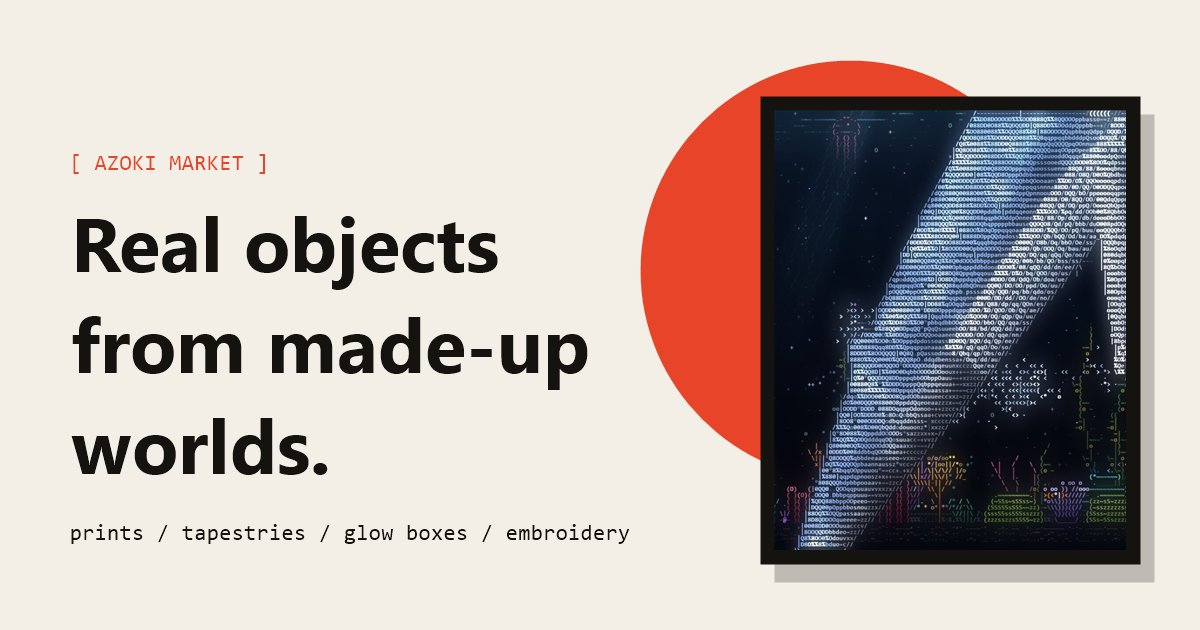
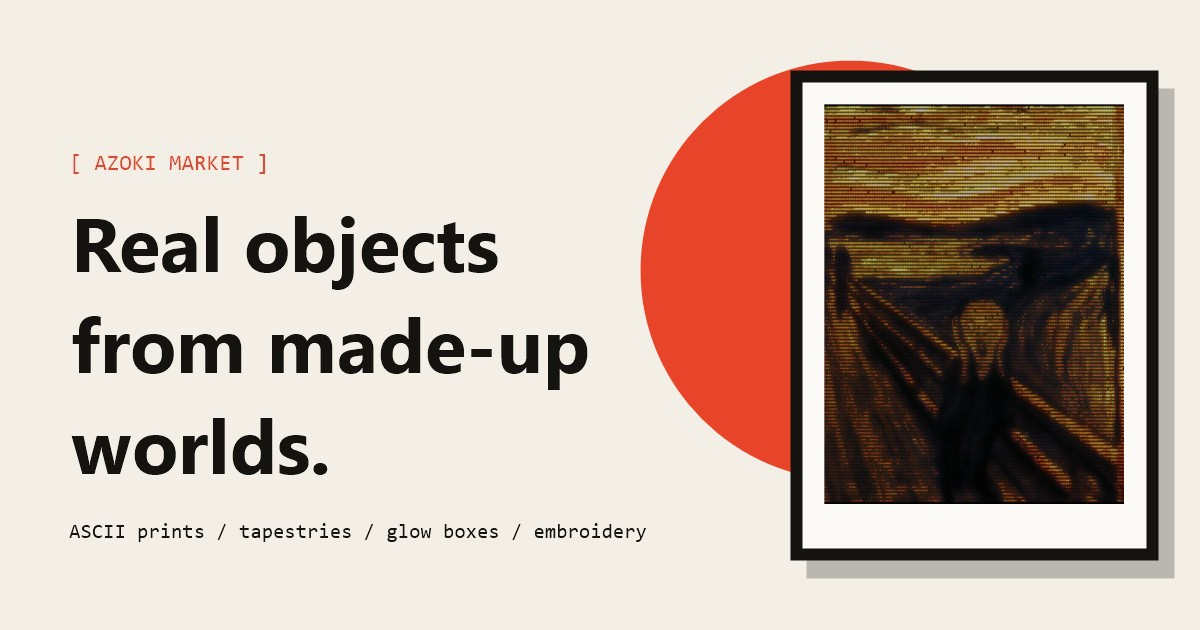
Renumber the catalogue with Coded Lens first; new share picture; product pages describe themselves
Sitemap lists every product. Product pages set description, canonical and og tags.

Changed region(s): [[0.6167, 0.0905, 0.9867, 0.9349], [0.0617, 0.8143, 0.5242, 0.8746]]

diff --git a/js/products.js b/js/products.js
@@ -1,7 +1,7 @@
 /* The Azoki Market catalogue. Edit this file to change what the shop sells.
 
    PLACEHOLDERS TO REPLACE BEFORE GOING LIVE
-   - Prices, size lists and "details" lines are stand-ins, EXCEPT the Coded Lens prints (No. 012 to 021):
+   - Prices, size lists and "details" lines are stand-ins, EXCEPT the Coded Lens prints (No. 001 to 010):
      those were costed on 2026-11-24 from Printify (Sensaria matte posters, US shipping included in
      the price). `prices` lists one price per size, in the same order as options.Size.
    - Product pictures are drawn by the site from the artwork in assets/ (a frame, a hanging
@@ -33,79 +33,63 @@ window.MARKET = {
   ],
   products: [
     {
-      id: 'sunset-print', no: '004', name: 'Hearthside, 18:36', cat: 'prints', type: 'print',
-      art: 'assets/art-village-sunset.jpg', wall: '#e3cdb4', price: 24, frame: '#6b4a2e',
-      from: 'Hearthside', fromId: 'hearthside',
-      blurb: 'The painted village at sunset, seen from high above, with the lamps about to come on.',
-      options: { Size: ['11 x 14 in', '12 x 18 in', '16 x 20 in', '18 x 24 in'] }, step: 6,
-      details: ['Art print, ready for a standard frame', 'Frame not included']
-    },
-    {
-      id: 'noon-print', no: '005', name: 'Hearthside, Noon', cat: 'prints', type: 'print',
-      art: 'assets/art-village-noon.jpg', wall: '#d5dcc6', price: 24, frame: '#6b4a2e',
-      from: 'Hearthside', fromId: 'hearthside',
-      blurb: 'Red roofs, blue roofs and a great deal of green. The village at its brightest.',
-      options: { Size: ['11 x 14 in', '12 x 18 in', '16 x 20 in', '18 x 24 in'] }, step: 6,
-      details: ['Art print, ready for a standard frame', 'Frame not included']
-    },
-    {
-      id: 'starry-print', no: '012', name: "Starry Night.exe", cat: 'prints', type: 'print', lens: true, land: true,
+      id: 'starry-print', no: '001', name: "Starry Night.exe", cat: 'prints', type: 'print', lens: true, land: true,
       art: 'assets/cl-starry.jpg', zoom: 'assets/cl-starry-zoom.jpg', wall: '#c9cfd8', price: 34, prices: [34, 44, 69],
       blurb: "Van Gogh's night sky, rebuilt one character at a time. From across the room it is the painting. Up close it is all letters.",
       options: { Size: ['16 x 12 in', '24 x 18 in', '32 x 24 in'] },
       details: ["Art print on museum-grade matte paper","Frame not included","Free shipping in the US","Every mark in the picture is a letter, number or symbol","After Van Gogh, 1889 (public domain)","Made with Coded Lens, in the Code Sea look"]
     },
     {
-      id: 'scream-print', no: '013', name: "The Scream, Thermal", cat: 'prints', type: 'print', lens: true,
+      id: 'scream-print', no: '002', name: "The Scream, Thermal", cat: 'prints', type: 'print', lens: true,
       art: 'assets/cl-scream.jpg', zoom: 'assets/cl-scream-zoom.jpg', wall: '#ddd0c2', price: 34, prices: [34, 44, 69],
       blurb: "The Scream as a heat camera would see it, every swirl of the sky typed out in symbols.",
       options: { Size: ['12 x 16 in', '18 x 24 in', '24 x 32 in'] },
       details: ["Art print on museum-grade matte paper","Frame not included","Free shipping in the US","Every mark in the picture is a letter, number or symbol","After Munch, 1893 (public domain)","Made with Coded Lens, in the Thermal look"]
     },
     {
-      id: 'wave-print', no: '014', name: "The Great Wave, Blueprint", cat: 'prints', type: 'print', lens: true, land: true,
+      id: 'wave-print', no: '003', name: "The Great Wave, Blueprint", cat: 'prints', type: 'print', lens: true, land: true,
       art: 'assets/cl-wave.jpg', zoom: 'assets/cl-wave-zoom.jpg', wall: '#d3d9df', price: 34, prices: [34, 44, 69],
       blurb: "Hokusai's wave drawn like an engineering plan: white characters on blueprint blue.",
       options: { Size: ['16 x 12 in', '24 x 18 in', '32 x 24 in'] },
       details: ["Art print on museum-grade matte paper","Frame not included","Free shipping in the US","Every mark in the picture is a letter, number or symbol","After Hokusai, about 1831 (public domain)","Made with Coded Lens, in the Blueprint look"]
     },
     {
-      id: 'shipwreck-print', no: '015', name: "The Shipwreck", cat: 'prints', type: 'print', lens: true, land: true,
+      id: 'shipwreck-print', no: '004', name: "The Shipwreck", cat: 'prints', type: 'print', lens: true, land: true,
       art: 'assets/cl-shipwreck.jpg', zoom: 'assets/cl-shipwreck-zoom.jpg', wall: '#d9cdc4', price: 34, prices: [34, 44, 69],
       blurb: "Turner's storm in thermal colours. The sea is hot, the sky is cold, and all of it is text.",
       options: { Size: ['16 x 12 in', '24 x 18 in', '32 x 24 in'] },
       details: ["Art print on museum-grade matte paper","Frame not included","Free shipping in the US","Every mark in the picture is a letter, number or symbol","After Turner, early 1800s (public domain)","Made with Coded Lens, in the Thermal look"]
     },
     {
-      id: 'hat-print', no: '016', name: "Woman with a Hat, Vapor", cat: 'prints', type: 'print', lens: true,
+      id: 'hat-print', no: '005', name: "Woman with a Hat, Vapor", cat: 'prints', type: 'print', lens: true,
       art: 'assets/cl-hat.jpg', zoom: 'assets/cl-hat-zoom.jpg', wall: '#dccfe0', price: 34, prices: [34, 44, 69],
       blurb: "Matisse's loudest portrait in pinks and teals, spelled out in characters.",
       options: { Size: ['12 x 16 in', '18 x 24 in', '24 x 32 in'] },
       details: ["Art print on museum-grade matte paper","Frame not included","Free shipping in the US","Every mark in the picture is a letter, number or symbol","After Matisse, 1905 (public domain)","Made with Coded Lens, in the Vaporwave look"]
     },
     {
-      id: 'udnie-print', no: '017', name: "Udnie", cat: 'prints', type: 'print', lens: true,
+      id: 'udnie-print', no: '006', name: "Udnie", cat: 'prints', type: 'print', lens: true,
       art: 'assets/cl-udnie.jpg', zoom: 'assets/cl-udnie-zoom.jpg', wall: '#cdd6d4', price: 34, prices: [34, 44, 69],
       blurb: "Picabia's abstract dance, broken into planes of glowing letters.",
       options: { Size: ['12 x 16 in', '18 x 24 in', '24 x 32 in'] },
       details: ["Art print on museum-grade matte paper","Frame not included","Free shipping in the US","Every mark in the picture is a letter, number or symbol","After Picabia, 1913 (public domain)","Made with Coded Lens, in the Code Sea look"]
     },
     {
-      id: 'launch-print', no: '018', name: "Launch Day", cat: 'prints', type: 'print', lens: true,
+      id: 'launch-print', no: '007', name: "Launch Day", cat: 'prints', type: 'print', lens: true,
       art: 'assets/cl-launch.jpg', zoom: 'assets/cl-launch-zoom.jpg', wall: '#d6cfc6', price: 34, prices: [34, 44, 69],
       blurb: "A rocket leaving the pad, the exhaust plume written in the hottest characters on the page.",
       options: { Size: ['12 x 16 in', '18 x 24 in', '24 x 32 in'] },
       details: ["Art print on museum-grade matte paper","Frame not included","Free shipping in the US","Every mark in the picture is a letter, number or symbol","After SpaceX launch photo (public domain)","Made with Coded Lens, in the Thermal look"]
     },
     {
-      id: 'deepfield-print', no: '019', name: "Deep Field", cat: 'prints', type: 'print', lens: true, land: true,
+      id: 'deepfield-print', no: '008', name: "Deep Field", cat: 'prints', type: 'print', lens: true, land: true,
       art: 'assets/cl-deepfield.jpg', zoom: 'assets/cl-deepfield-zoom.jpg', wall: '#c8ccd9', price: 34, prices: [34, 44, 69],
       blurb: "Thousands of galaxies from the Hubble Deep Field, each one a few characters of light.",
       options: { Size: ['16 x 12 in', '24 x 18 in', '32 x 24 in'] },
       details: ["Art print on museum-grade matte paper","Frame not included","Free shipping in the US","Every mark in the picture is a letter, number or symbol","After Hubble, NASA (public domain)","Made with Coded Lens, in the Code Sea look"]
     },
     {
-      id: 'jelly-print', no: '020', name: "Code Sea Jellyfish", cat: 'prints', type: 'print', lens: true,
+      id: 'jelly-print', no: '009', name: "Code Sea Jellyfish", cat: 'prints', type: 'print', lens: true,
       art: 'assets/cl-jelly.jpg', zoom: 'assets/cl-jelly-zoom.jpg', wall: '#c5cfd6', price: 34, prices: [34, 44, 69],
       blurb: "Jellyfish rising through dark water, drawn entirely in text. Original Azoki art from the world of Code Sea.",
       options: { Size: ['12 x 16 in', '18 x 24 in', '24 x 32 in'] },
@@ -114,14 +98,30 @@ window.MARKET = {
     {
       /* The make-your-own print. `custom: true` changes its wording: it is made from a picture
          the customer turns into text with Coded Lens and sends in. */
-      id: 'custom-print', no: '021', name: 'Your Own Print', cat: 'prints', type: 'print', custom: true,
+      id: 'custom-print', no: '010', name: 'Your Own Print', cat: 'prints', type: 'print', custom: true,
       art: 'assets/cl-pet.jpg', zoom: 'assets/cl-pet-zoom.jpg', lens: true, wall: '#d9d2e0', price: 45, prices: [45, 59, 79],
       blurb: 'Your photo, or your pet, rebuilt from letters and printed. You make the picture yourself in Coded Lens, the free Azoki tool that turns any photo or clip into text art, then send it in.',
       options: { Size: ['12 x 16 in', '18 x 24 in', '24 x 32 in'] },
       details: ['Made from your own picture', 'Art print on museum-grade matte paper', 'Frame not included', 'Free shipping in the US']
     },
     {
-      id: 'shark-tapestry', no: '006', name: 'The Shark', cat: 'tapestries', type: 'tapestry',
+      id: 'sunset-print', no: '011', name: 'Hearthside, 18:36', cat: 'prints', type: 'print',
+      art: 'assets/art-village-sunset.jpg', wall: '#e3cdb4', price: 24, frame: '#6b4a2e',
+      from: 'Hearthside', fromId: 'hearthside',
+      blurb: 'The painted village at sunset, seen from high above, with the lamps about to come on.',
+      options: { Size: ['11 x 14 in', '12 x 18 in', '16 x 20 in', '18 x 24 in'] }, step: 6,
+      details: ['Art print, ready for a standard frame', 'Frame not included']
+    },
+    {
+      id: 'noon-print', no: '012', name: 'Hearthside, Noon', cat: 'prints', type: 'print',
+      art: 'assets/art-village-noon.jpg', wall: '#d5dcc6', price: 24, frame: '#6b4a2e',
+      from: 'Hearthside', fromId: 'hearthside',
+      blurb: 'Red roofs, blue roofs and a great deal of green. The village at its brightest.',
+      options: { Size: ['11 x 14 in', '12 x 18 in', '16 x 20 in', '18 x 24 in'] }, step: 6,
+      details: ['Art print, ready for a standard frame', 'Frame not included']
+    },
+    {
+      id: 'shark-tapestry', no: '013', name: 'The Shark', cat: 'tapestries', type: 'tapestry',
       art: 'assets/art-school.jpg', wall: '#cdd3d6', price: 38,
       from: 'Code Sea', fromId: 'codesea',
       blurb: 'A shark in text cruising over the reef, big enough to hang behind a desk or a bed.',
@@ -129,7 +129,7 @@ window.MARKET = {
       details: ['Fabric wall hanging', 'Hangs from pins, clips or a rod']
     },
     {
-      id: 'night-tapestry', no: '007', name: 'Lamps Lit', cat: 'tapestries', type: 'tapestry',
+      id: 'night-tapestry', no: '014', name: 'Lamps Lit', cat: 'tapestries', type: 'tapestry',
       art: 'assets/art-village-night.jpg', wall: '#d2cbbd', price: 38,
       from: 'Hearthside', fromId: 'hearthside',
       blurb: 'Hearthside after dark: windows and street lamps glowing in a moonlit forest.',
@@ -137,7 +137,7 @@ window.MARKET = {
       details: ['Fabric wall hanging', 'Hangs from pins, clips or a rod']
     },
     {
-      id: 'reef-tapestry', no: '008', name: 'The Shallows', cat: 'tapestries', type: 'tapestry', wide: true,
+      id: 'reef-tapestry', no: '015', name: 'The Shallows', cat: 'tapestries', type: 'tapestry', wide: true,
       art: 'assets/art-reef.jpg', wall: '#efe3cd', price: 38,
       from: 'Desktop Reef', fromId: 'desktop-reef',
       blurb: 'Coral gardens in turquoise water, seen from above. The loudest thing in the shop.',
@@ -145,7 +145,7 @@ window.MARKET = {
       details: ['Fabric wall hanging', 'Hangs from pins, clips or a rod']
     },
     {
-      id: 'whale-glow', no: '009', name: 'Whale Glow Box', cat: 'glow', type: 'glow',
+      id: 'whale-glow', no: '016', name: 'Whale Glow Box', cat: 'glow', type: 'glow',
       art: 'assets/art-whale.jpg', wall: '#17130f', price: 64, tint: '120, 185, 255',
       from: 'Code Sea', fromId: 'codesea',
       blurb: 'The whale, lit from behind. Off, it is a dark picture in a frame. On, the letters glow like a screen in a dark room.',
@@ -153,7 +153,7 @@ window.MARKET = {
       details: ['Back-lit shadow box', 'Stands on a shelf or hangs on a wall']
     },
     {
-      id: 'bloom-glow', no: '010', name: 'Bloom Glow Box', cat: 'glow', type: 'glow',
+      id: 'bloom-glow', no: '017', name: 'Bloom Glow Box', cat: 'glow', type: 'glow',
       art: 'assets/art-glow.jpg', wall: '#17130f', price: 64, tint: '110, 235, 215',
       from: 'Code Sea', fromId: 'codesea',
       blurb: 'A bioluminescent bloom, the rarest thing in Code Sea, kept in a box you can switch on whenever you like.',
@@ -161,7 +161,7 @@ window.MARKET = {
       details: ['Back-lit shadow box', 'Stands on a shelf or hangs on a wall']
     },
     {
-      id: 'city-crew', no: '011', name: 'City Crewneck', cat: 'embroidery', type: 'crew',
+      id: 'city-crew', no: '018', name: 'City Crewneck', cat: 'embroidery', type: 'crew',
       wall: '#dcd3c1', price: 58,
       blurb: 'A skyline stitched across the chest in a single thread colour, framed like a postage stamp. Pick your city.',
       options: {

diff --git a/index.html b/index.html
@@ -54,7 +54,7 @@
 <!-- ============ HERO ============ -->
 <section class="hero">
   <div class="hero-copy">
-    <p class="label">[ azoki market ] <span>objects no. 001 to 021</span></p>
+    <p class="label">[ azoki market ] <span>objects no. 001 to 018</span></p>
     <h1>Real objects from made-up <em>worlds.</em></h1>
     <p class="hero-sub">Prints, tapestries, glow boxes and stitched crewnecks. Some start life as live wallpapers at Azoki Studios. All of them end up somewhere you can touch.</p>
     <p class="soon-note" hidden><i aria-hidden="true"></i>Opening soon. Nothing is for sale yet: shortlist what you like and you will hear the day the doors open.</p>
@@ -68,8 +68,8 @@
     <div class="s s1" data-mock="shark-tapestry"></div>
     <div class="s s2" data-mock="scream-print"></div>
     <div class="s s3" data-mock="bloom-glow"></div>
-    <p class="tag t1">No. 006<br>The Shark</p>
-    <p class="tag t2">No. 013<br>The Scream, Thermal</p>
+    <p class="tag t1">No. 013<br>The Shark</p>
+    <p class="tag t2">No. 002<br>The Scream, Thermal</p>
   </div>
 </section>
 
@@ -83,7 +83,7 @@
 <section class="lens" id="lens">
   <div class="shop-head">
     <div>
-      <p class="label reveal">[ no. 012 to 020 ] the coded lens collection</p>
+      <p class="label reveal">[ no. 001 to 009 ] the coded lens collection</p>
       <h2 class="reveal">Old masters, <em>retyped.</em></h2>
     </div>
     <p class="lens-note reveal">Van Gogh, Hokusai, Munch and the Hubble telescope, rebuilt one character at a time. From across the room it is the picture you know. Up close, every mark is a letter, a number or a symbol.</p>
@@ -95,7 +95,7 @@
 <!-- ============ GLOW ============ -->
 <section class="glowsec" id="glow">
   <div class="glow-copy">
-    <p class="label">[ no. 009 ] glow box</p>
+    <p class="label">[ no. 016 ] glow box</p>
     <h2 id="glowLine">Go on. Turn the lights off.</h2>
     <p>A glow box is a picture with a light behind it. In daylight it sits there quietly. In the dark, the whale looks the way it does on a screen at midnight.</p>
     <button class="lightsw big" id="lightSwitch" role="switch" aria-checked="true"><span class="knob" aria-hidden="true"></span>room lights: <b class="sw-state">on</b></button>
@@ -127,7 +127,7 @@
 <section class="stitch custom" id="custom">
   <div class="stitch-stage reveal" data-mock="custom-print"></div>
   <div class="stitch-copy reveal">
-    <p class="label">[ no. 021 ] make your own</p>
+    <p class="label">[ no. 010 ] make your own</p>
     <h2>Your photo, or your pet, in <em>letters.</em></h2>
     <p>Every print in the shop is a picture made of text. This one is yours. Build it in Coded Lens, the free Azoki tool that rebuilds any photo or clip out of glowing characters, then send it in to be printed.</p>
     <ol class="how">
@@ -149,7 +149,7 @@
 <section class="stitch" id="stitch">
   <div class="stitch-stage reveal" id="stitchStage"></div>
   <div class="stitch-copy reveal">
-    <p class="label">[ no. 011 ] embroidery</p>
+    <p class="label">[ no. 018 ] embroidery</p>
     <h2>Wear <em id="stitchCity">Atlanta</em> on your chest.</h2>
     <p>A skyline stitched in one thread colour and framed like a stamp. Pick the city, pick the cloth.</p>
     <p class="mini">City</p>

diff --git a/js/market.js b/js/market.js
@@ -216,6 +216,14 @@
     const p = byId(new URLSearchParams(location.search).get('id')) || M.products[0];
     const o = defaults(p); let qty = 1, off = false;
     document.title = p.name + ' | Azoki Market';
+    const head = (sel, make, attr, val) => { let e = $(sel); if (!e) { e = document.createElement(make[0]); e.setAttribute(make[1], make[2]); document.head.appendChild(e); } e.setAttribute(attr, val); };
+    const url = 'https://azokimarket.com/product.html?id=' + p.id;
+    head('meta[name=description]', ['meta', 'name', 'description'], 'content', p.blurb);
+    head('link[rel=canonical]', ['link', 'rel', 'canonical'], 'href', url);
+    head('meta[property="og:title"]', ['meta', 'property', 'og:title'], 'content', p.name + ', from Azoki Market');
+    head('meta[property="og:description"]', ['meta', 'property', 'og:description'], 'content', p.blurb);
+    head('meta[property="og:url"]', ['meta', 'property', 'og:url'], 'content', url);
+    if (p.art) head('meta[property="og:image"]', ['meta', 'property', 'og:image'], 'content', 'https://azokimarket.com/' + p.art);
     const optHtml = Object.keys(p.options).map((k) =>
       '<fieldset class="opt"><legend>' + k + ' <b data-cur="' + k + '"></b></legend><div class="chips">' +
       p.options[k].map((v, i) => '<label><input type="radio" name="' + k + '" value="' + esc(v) + '"' + (i === 0 ? ' checked' : '') + '><span>' + esc(v) + '</span></label>').join('') +
